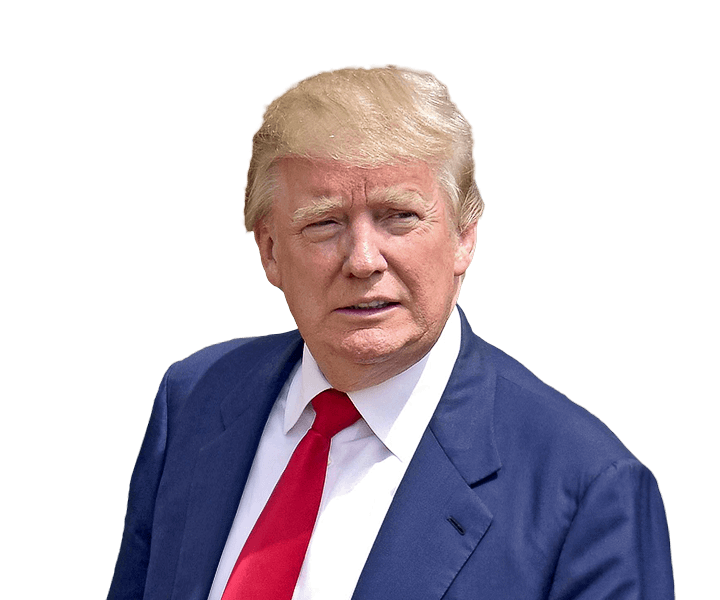
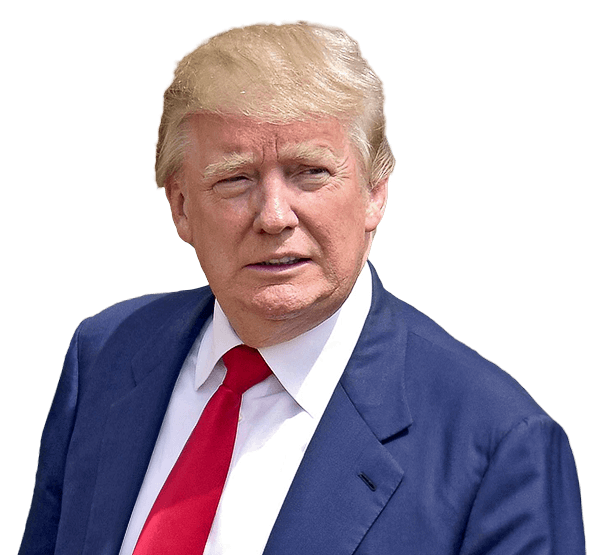
image fixes

diff --git a/website/flask_site/templates/main_1.html b/website/flask_site/templates/main_1.html
@@ -12,7 +12,7 @@
           height = height - 0.1*height
           width= width - 0.1*width
           document.getElementById("timeline-Tweet").style="display:none"; 
-          document.getElementById("image_real").style="height:250px; width: 375px; display: none;  margin-left: 30px; ";  
+          document.getElementById("image_real").style="height:206px; width: 263px; display: none;  margin-left: 90px; ";  
 
           // document.getElementById("ugi").style="position: absolute;  display:inline-block; font: 20px Roboto;font-weight: 300;color: #292F33; text-align: center;"; 
           document.getElementById("button-section").style="opacity:0"; 
@@ -32,7 +32,7 @@
           height2 = height2 - 0.1*height2
           width2= width2 - 0.1*width2
           document.getElementById("timeline-Tweet2").style="display:none"; 
-          document.getElementById("image").style="height:200px; width: 280px; display: none;  margin-left: 60px; ";  
+          document.getElementById("image").style="height:200px; width: 280px; display: none;  margin-left: 60px;  margin-top: 10px";  
 
           document.getElementById("button-section2").style="opacity:0"; 
 
@@ -78,7 +78,7 @@
         <div class="wrapper" id="wrapper"> 
           <div class="tw-block-parent" id=tw-block-parent>
             <div class="timeline-TweetList-tweet" id="timeline-TweetList-tweet">
-              <img style="display: none" class= "image_real" id="image_real" src={{ url_for("static", filename="donald_trump_PNG38.png" )}}
+              <img style="display: none" class= "image_real" id="image_real" src={{ url_for("static", filename="Trump_stare.png" )}}
                     alt="Real">
               <div class="timeline-Tweet" id="timeline-Tweet">
                 <div class="timeline-Tweet-brand">

diff --git a/website/flask_site/templates/main_2.html b/website/flask_site/templates/main_2.html
@@ -10,7 +10,7 @@
           height = height - 0.1*height
           width= width - 0.1*width
           document.getElementById("timeline-Tweet").style="display:none"; 
-          document.getElementById("image").style="height:200px; width: 280px; display: none;  margin-left: 60px; ";  
+          document.getElementById("image").style="height:200px; width: 280px; display: none;  margin-left: 60px; margin-top: 10px ";  
 
           // document.getElementById("ugi").style="position: absolute;  display:inline-block; font: 20px Roboto;font-weight: 300;color: #292F33; text-align: center;"; 
           document.getElementById("button-section").style="opacity:0"; 
@@ -30,7 +30,7 @@
           height2 = height2 - 0.1*height2
           width2= width2 - 0.1*width2
           document.getElementById("timeline-Tweet2").style="display:none"; 
-          document.getElementById("image_real").style="height:250px; width: 375px; display: none;  margin-left: 30px; ";  
+          document.getElementById("image_real").style="height:206px; width: 263px; display: none;  margin-left: 90px; ";  
 
           document.getElementById("button-section2").style="opacity:0"; 
 
@@ -115,7 +115,7 @@
         <div class="wrapper">
           <div class="tw-block-parent">
             <div class="timeline-TweetList-tweet2" id="timeline-TweetList-tweet2">
-              <img style="display: none" class= "image_real" id="image_real" src={{ url_for("static", filename="donald_trump_PNG38.png" )}}
+              <img style="display: none" class= "image_real" id="image_real" src={{ url_for("static", filename="Trump_stare.png" )}}
                   alt="Real">
               <div class="timeline-Tweet" id="timeline-Tweet2">
                 <div class="timeline-Tweet-brand">
